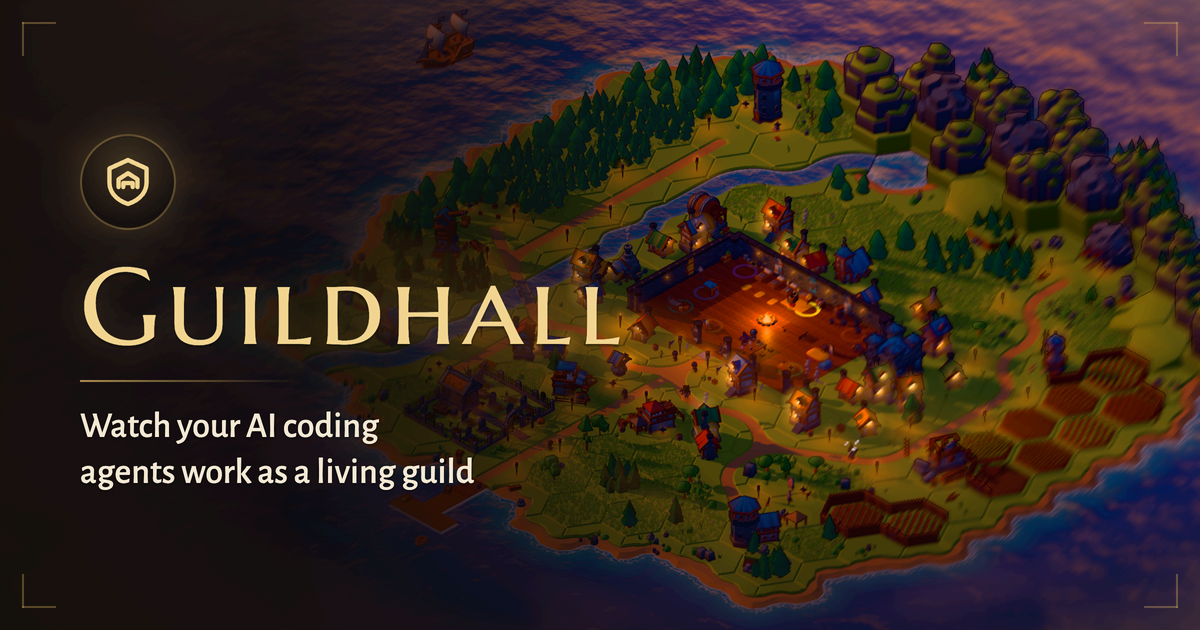
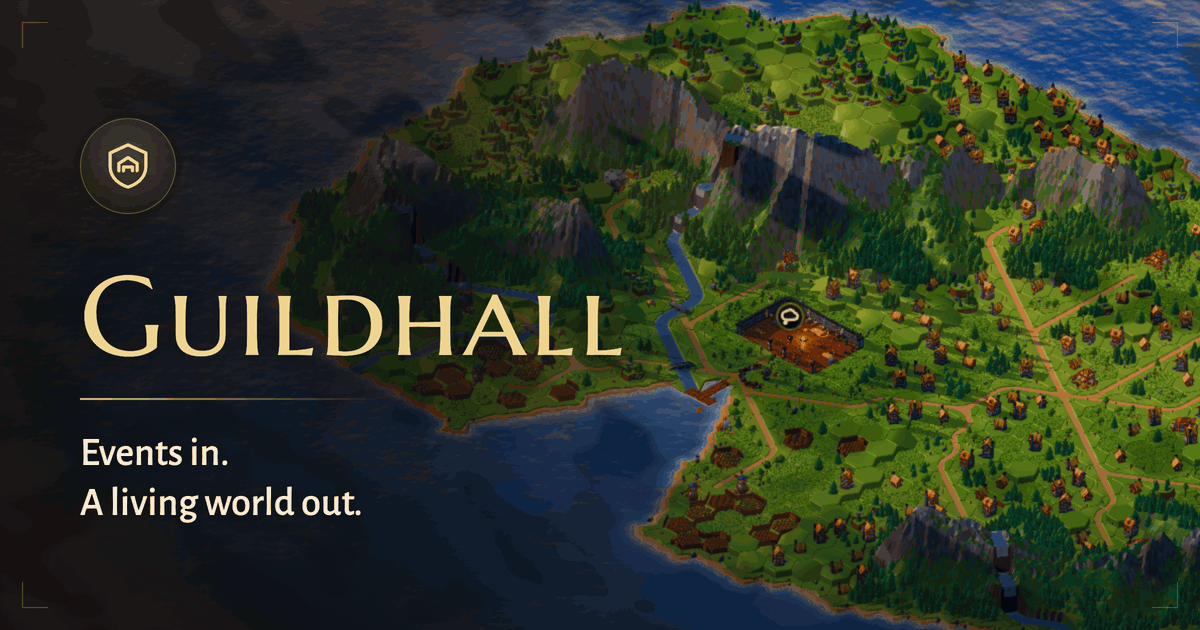
The new world on the site: a demos card, a fresh share image, and how it's grown
/demos gains "New world (preview)", the gen=2 React island. og.png is
rendered from that island at golden hour with the current tagline, by a
reproducible scripts/og.ts (frame via shot.ts, HTML overlay in Chrome for
Testing, palette-quantised under 300 KB). /how gets "A world from a
repo": land sized by files, ranges before roads, rivers by a flood that
never climbs, detail tiers, the see-through cut, with the numbers.

Claude-Session: https://claude.ai/code/session_01BF6jXfoKFgRNbGnyCdPnnv

diff --git a/packages/hall/how.html b/packages/hall/how.html
@@ -78,6 +78,7 @@
           <li><a href="#webgpu">WebGL against WebGPU, honestly</a></li>
           <li><a href="#tsl">TSL on WebGL: the gotchas</a></li>
           <li><a href="#islands">Repos as islands</a></li>
+          <li><a href="#world">A world from a repo</a></li>
           <li><a href="#seas">GitHub as a sea</a></li>
           <li><a href="#verify">How we know it still works</a></li>
         </ol>
@@ -440,9 +441,67 @@
         </div>
       </section>
 
-      <!-- ─────────────────────────── V. seas ─────────────────────────── -->
-      <section id="seas" aria-labelledby="seas-h">
+      <!-- ─────────────────────────── V. world ─────────────────────────── -->
+      <section id="world" aria-labelledby="world-h">
         <p class="eyebrow">V</p>
+        <h2 id="world-h">A world from a repo</h2>
+        <p>
+          A second generator is growing beside the first, still a preview. The first grows districts and
+          lets the coast fall where they end. This one draws the <strong>outline first</strong>: one
+          landmass, then everything inside it, in an order that stops things fighting over the same ground.
+        </p>
+
+        <figure class="plaque">
+          <figcaption>In the order it is laid</figcaption>
+          <dl class="map">
+            <dt>The land</dt>
+            <dd>one rounded landmass with a wavy coast and a harbour cove, sized by how many files the repo has</dd>
+            <dt>Mountain ranges</dt>
+            <dd>laid before any road or lot, as bands round winding inland spines, with the keep left in a plain; roads then pay extra to cross them and cut passes where they must</dd>
+            <dt>Rivers</dt>
+            <dd>found by a flood that starts at the sea and never climbs: each hex learns its way down, so water always runs downhill, falls over the ledges and reaches the coast, under a bridge where a road crosses</dd>
+            <dt>Forests and hill towns</dt>
+            <dd>trees cover the lower slopes and thin to a treeline; towns in the hills keep their lots on terraces</dd>
+            <dt>Detail</dt>
+            <dd>each region draws in full or as a simplified copy, chosen by how many screen pixels a world unit covers, with a margin so nothing flickers between the two</dd>
+            <dt>The view</dt>
+            <dd>when a mountain hides someone, a soft dithered hole opens in the relief itself, so the camera need not move</dd>
+          </dl>
+        </figure>
+
+        <figure class="plaque" aria-labelledby="world-n-h">
+          <div class="chart-head">
+            <figcaption id="world-n-h">What it cost, measured</figcaption>
+          </div>
+          <div class="table-wrap">
+            <table>
+              <thead>
+                <tr><th scope="col">Change</th><th scope="col">Before</th><th scope="col">After</th></tr>
+              </thead>
+              <tbody>
+                <tr><th scope="row">React overview, triangles, with detail tiers</th><td>1.92M</td><td>1.31M</td></tr>
+                <tr><th scope="row">Draw calls for all inland water</th><td colspan="2">2, however many rivers and lakes</td></tr>
+                <tr><th scope="row">Six heroes on first paint, gzip, with meshopt</th><td>1.16 MB</td><td>0.75 MB</td></tr>
+              </tbody>
+            </table>
+          </div>
+          <p class="fig-note">
+            Detail tiers swap with no visible pop. The water is flat surfaces per level carrying flow and
+            bank distance, so every river, lake and fall shares two draws. The characters' saving
+            (410 KB gzip) is not the terrain's, but it keeps the first paint light while the world grows.
+          </p>
+        </figure>
+
+        <div class="plaque try">
+          <span class="try-label">Try it</span>
+          <a href="/?repo=facebook/react&amp;gen=2&amp;look=island&amp;hour=11"><code>?repo=facebook/react&amp;gen=2&amp;look=island</code></a>
+          <p>Add <code>gen=2</code> to any repo link. Without it you get the first generator, unchanged.</p>
+        </div>
+      </section>
+
+      <!-- ─────────────────────────── VI. seas ─────────────────────────── -->
+      <section id="seas" aria-labelledby="seas-h">
+        <p class="eyebrow">VI</p>
         <h2 id="seas-h">GitHub as a sea</h2>
         <p>
           When a project's remote is on GitHub, the water round its island fills with it. Commits and
@@ -489,9 +548,9 @@
         </div>
       </section>
 
-      <!-- ─────────────────────────── VI. verify ─────────────────────────── -->
+      <!-- ─────────────────────────── VII. verify ─────────────────────────── -->
       <section id="verify" aria-labelledby="verify-h">
-        <p class="eyebrow">VI</p>
+        <p class="eyebrow">VII</p>
         <h2 id="verify-h">How we know it still works</h2>
         <p>
           A 3D scene can break without a single test going red: a light turns off, a shader goes

diff --git a/scripts/og.html b/scripts/og.html
@@ -1,0 +1,81 @@
+<!doctype html>
+<!--
+  The overlay of the social card (scripts/og.ts renders it with Chrome for Testing and writes
+  packages/hall/public/og.png): a frame of the world behind the crest, the wordmark and the tagline,
+  in the hall's own tokens (hud/hall.css, demos.css). Not shipped: the site never links it.
+-->
+<html lang="en">
+  <head>
+    <meta charset="UTF-8" />
+    <title>Guildhall social card</title>
+    <link rel="preconnect" href="https://fonts.googleapis.com" />
+    <link rel="preconnect" href="https://fonts.gstatic.com" crossorigin />
+    <link href="https://fonts.googleapis.com/css2?family=Marcellus+SC&family=Alegreya+Sans:wght@400;500&display=swap" rel="stylesheet" />
+    <style>
+      :root {
+        --ink-solid: #15110d;
+        --paper: #f3e9d4;
+        --brass: #dcb662;
+        --brass-hi: #f1d590;
+        --brass-line: rgba(220, 182, 98, 0.34);
+        --display: "Marcellus SC", "Cormorant SC", Georgia, serif;
+        --body: "Alegreya Sans", "Gill Sans", "Trebuchet MS", sans-serif;
+      }
+      * { box-sizing: border-box; margin: 0; }
+      html, body { width: 1200px; height: 630px; overflow: hidden; background: var(--ink-solid); }
+      .card { position: relative; width: 1200px; height: 630px; overflow: hidden; }
+      /* The frame is 2880x1720; this window keeps the hall and the ranges on the right. */
+      .frame {
+        position: absolute; inset: 0;
+        background: url("../.probe/og-frame.png") no-repeat;
+        background-size: 1600px auto;
+        background-position: 0 -190px;
+      }
+      .veil {
+        position: absolute; inset: 0;
+        background:
+          linear-gradient(90deg, rgba(15, 12, 9, 0.9) 0%, rgba(15, 12, 9, 0.72) 34%, rgba(15, 12, 9, 0.12) 64%, transparent 80%),
+          linear-gradient(0deg, rgba(15, 12, 9, 0.5), transparent 28%);
+      }
+      .crest {
+        position: absolute; left: 80px; top: 118px;
+        width: 96px; height: 96px; border-radius: 50%;
+        display: grid; place-items: center; color: var(--brass-hi);
+        border: 1.5px solid var(--brass-line);
+        background: radial-gradient(circle at 50% 38%, rgba(220, 182, 98, 0.22), rgba(21, 17, 13, 0.78));
+        box-shadow: 0 0 0 6px rgba(21, 17, 13, 0.35);
+      }
+      .words { position: absolute; left: 80px; top: 260px; }
+      h1 {
+        font: 400 112px/1 var(--display); letter-spacing: 0.04em; color: var(--brass-hi);
+        text-shadow: 0 2px 24px rgba(15, 12, 9, 0.7);
+      }
+      .rule { display: block; width: 300px; height: 1.5px; margin: 26px 0 28px; background: linear-gradient(90deg, var(--brass), transparent); }
+      p { font: 500 40px/1.25 var(--body); color: var(--paper); text-shadow: 0 1px 14px rgba(15, 12, 9, 0.8); }
+      .corner { position: absolute; width: 26px; height: 26px; border: 0 solid var(--brass-line); }
+      .tl { left: 22px; top: 22px; border-width: 1.5px 0 0 1.5px; }
+      .tr { right: 22px; top: 22px; border-width: 1.5px 1.5px 0 0; }
+      .bl { left: 22px; bottom: 22px; border-width: 0 0 1.5px 1.5px; }
+      .br { right: 22px; bottom: 22px; border-width: 0 1.5px 1.5px 0; }
+    </style>
+  </head>
+  <body>
+    <div class="card">
+      <div class="frame"></div>
+      <div class="veil"></div>
+      <span class="corner tl"></span><span class="corner tr"></span><span class="corner bl"></span><span class="corner br"></span>
+      <div class="crest">
+        <svg aria-hidden="true" width="52" height="52" viewBox="0 0 16 16" fill="none" stroke="currentColor" stroke-width="1" stroke-linecap="round" stroke-linejoin="round">
+          <path d="M8 1.5 13.5 4v4.2c0 3-2.3 5.3-5.5 6.3-3.2-1-5.5-3.3-5.5-6.3V4z" />
+          <path d="M5.2 9.5V7.2L8 5.4l2.8 1.8v2.3" />
+          <path d="M6.6 9.5V8.3h2.8v1.2" />
+        </svg>
+      </div>
+      <div class="words">
+        <h1>Guildhall</h1>
+        <span class="rule"></span>
+        <p>Events in.<br />A living world out.</p>
+      </div>
+    </div>
+  </body>
+</html>

diff --git a/scripts/og.ts b/scripts/og.ts
@@ -1,0 +1,82 @@
+/**
+ * Rebuilds the social card, packages/hall/public/og.png (1200x630, under 300 KB):
+ * a golden-hour frame of the React gen=2 island, shot cold with scripts/shot.ts, behind the
+ * overlay in scripts/og.html (crest, wordmark, tagline), rendered by Chrome for Testing at 2x,
+ * then resampled to 1200x630 and palette-quantised with ffmpeg to fit the budget.
+ *
+ *   bun run dev                              # the hall, in another terminal
+ *   bun scripts/og.ts [http://localhost:5199] [--frame]   (--frame: reuse .probe/og-frame.png)
+ *
+ * Needs ffmpeg (`brew install ffmpeg`). Intermediates stay in .probe/ (git-ignored).
+ */
+import { chromium } from "playwright-core"
+import { acquireGpu } from "./gpulock.ts"
+import { CHROME, PROBE_DIR, ROOT } from "./steps.ts"
+
+const base = (process.argv[2]?.startsWith("http") ? process.argv[2] : "http://localhost:5199").replace(
+  /\/$/,
+  "",
+)
+const reuse = process.argv.includes("--frame")
+const MAX_BYTES = 300 * 1024
+const OUT = `${ROOT}packages/hall/public/og.png`
+
+if (!Bun.which("ffmpeg")) {
+  console.error("og: ffmpeg not found. Install with: brew install ffmpeg")
+  process.exit(1)
+}
+
+if (!reuse) {
+  // Hide every fixed or absolute HUD piece (the "Show HUD" tab, story captions), keep the canvas.
+  const hide =
+    "document.querySelectorAll('body *').forEach(e=>{if(e.tagName==='CANVAS'||e.querySelector('canvas')||e.closest('canvas'))return;const p=getComputedStyle(e).position;if(p==='fixed'||p==='absolute')e.style.display='none'})"
+  const steps = [{ wait: 7000 }, { eval: hide }, { wait: 400 }, { shot: "og-frame", png: true }]
+  await Bun.write(`${PROBE_DIR}/og-steps.json`, JSON.stringify(steps))
+  const url = `${base}/?repo=facebook/react&gen=2&look=island&hour=17.5&hud=off`
+  const shot = Bun.spawn(["bun", `${ROOT}scripts/shot.ts`, url, `${PROBE_DIR}/og-steps.json`], {
+    stdout: "inherit",
+    stderr: "inherit",
+  })
+  if ((await shot.exited) !== 0) throw new Error("og: shot.ts failed")
+}
+
+// The overlay, at 2x, once the web fonts are in.
+await acquireGpu("og")
+const browser = await chromium.launch({ executablePath: CHROME })
+const page = await browser.newPage({ viewport: { width: 1200, height: 630 }, deviceScaleFactor: 2 })
+await page.goto(`file://${ROOT}scripts/og.html`)
+await page.evaluate(() => document.fonts.ready)
+await page.waitForTimeout(500)
+await page.screenshot({ path: `${PROBE_DIR}/og-raw.png`, type: "png" })
+await browser.close()
+
+const CANDIDATES: [string, number][] = [
+  ["sierra2_4a", 256],
+  ["bayer:bayer_scale=5", 256],
+  ["bayer:bayer_scale=5", 128],
+  ["none", 256],
+  ["none", 128],
+]
+// Down to 1200x630 (Lanczos), then 256 colours with dithering; fewer colours until it fits.
+let bytes = Number.POSITIVE_INFINITY
+for (const [dither, colours] of CANDIDATES) {
+  const run = Bun.spawnSync([
+    "ffmpeg",
+    "-y",
+    "-loglevel",
+    "error",
+    "-i",
+    `${PROBE_DIR}/og-raw.png`,
+    "-vf",
+    `scale=1200:630:flags=lanczos,split[a][b];[a]palettegen=max_colors=${colours}:stats_mode=diff[p];[b][p]paletteuse=dither=${dither}`,
+    "-frames:v",
+    "1",
+    OUT,
+  ])
+  if (run.exitCode !== 0) throw new Error(`og: ffmpeg failed: ${run.stderr.toString()}`)
+  bytes = Bun.file(OUT).size
+  console.log(`og: ${dither}, ${colours} colours -> ${(bytes / 1024).toFixed(0)} KB`)
+  if (bytes <= MAX_BYTES) break
+}
+if (bytes > MAX_BYTES) throw new Error("og: could not fit 300 KB")
+console.log(`og: wrote ${OUT}`)

diff --git a/packages/hall/demos.html b/packages/hall/demos.html
@@ -193,6 +193,25 @@
           </article>
         </li>
         <li class="demo">
+          <article aria-labelledby="d-world">
+            <img class="demo-img" src="/demos/world.webp" width="640" height="400" alt="React's repository as one island with mountain ranges, rivers falling to the sea, forests and hill towns, at eleven in the morning." loading="lazy" decoding="async" />
+            <div class="demo-body">
+              <p class="demo-kicker">Preview · a new generator</p>
+              <h3 id="d-world">New world (preview)</h3>
+              <p class="demo-desc">The same repo on the next world generator: one landmass sized by its files, mountain ranges laid inland, rivers that fall to the sea, forests and hill towns. Still being tuned.</p>
+              <h4 class="visually-hidden">What it shows</h4>
+              <ul class="demo-shows">
+              <li>Rivers run from the ranges to the coast, over waterfalls and under bridges</li>
+              <li>Far land draws simpler, so the island stays light</li>
+              </ul>
+              <div class="demo-acts">
+                <a class="open" href="/?repo=facebook/react&amp;gen=2&amp;look=island&amp;hour=11&amp;demo">Open<span class="visually-hidden"> New world (preview)</span><svg aria-hidden="true" width="14" height="14" viewBox="0 0 16 16" fill="none" stroke="currentColor" stroke-width="1.6" stroke-linecap="round" stroke-linejoin="round" focusable="false"><path d="M3 8h9.5M8.5 4l4 4-4 4" /></svg></a>
+                <code class="demo-link">?repo=facebook/react&amp;gen=2&amp;look=island</code>
+              </div>
+            </div>
+          </article>
+        </li>
+        <li class="demo">
           <article aria-labelledby="d-island">
             <img class="demo-img" src="/demos/island.webp" width="640" height="400" alt="A small voxel island whose districts are a repository's folders." loading="lazy" decoding="async" />
             <div class="demo-body">

diff --git a/packages/hall/index.html b/packages/hall/index.html
@@ -23,12 +23,12 @@
     <meta property="og:image:type" content="image/png" />
     <meta property="og:image:width" content="1200" />
     <meta property="og:image:height" content="630" />
-    <meta property="og:image:alt" content="A voxel island at golden hour, its guildhall lit by a fire, with the title Guildhall: watch your AI coding agents work as a living guild." />
+    <meta property="og:image:alt" content="A low-poly island grown from the React repo at golden hour: mountain ranges, rivers and forests round a lit guildhall, with the title Guildhall and the line Events in. A living world out." />
     <meta name="twitter:card" content="summary_large_image" />
     <meta name="twitter:title" content="Guildhall · Events in. A living world out." />
     <meta name="twitter:description" content="Plug in any event stream (coding agents, GitHub, a repo's history or your own) and watch it become a living 3D island, live in your browser." />
     <meta name="twitter:image" content="https://guildhall.codestz.dev/og.png" />
-    <meta name="twitter:image:alt" content="A voxel island at golden hour, its guildhall lit by a fire, with the title Guildhall: watch your AI coding agents work as a living guild." />
+    <meta name="twitter:image:alt" content="A low-poly island grown from the React repo at golden hour: mountain ranges, rivers and forests round a lit guildhall, with the title Guildhall and the line Events in. A living world out." />
     <style>
       html, body, #root { margin: 0; height: 100%; background: #cfdcee; overflow: hidden; }
     </style>
